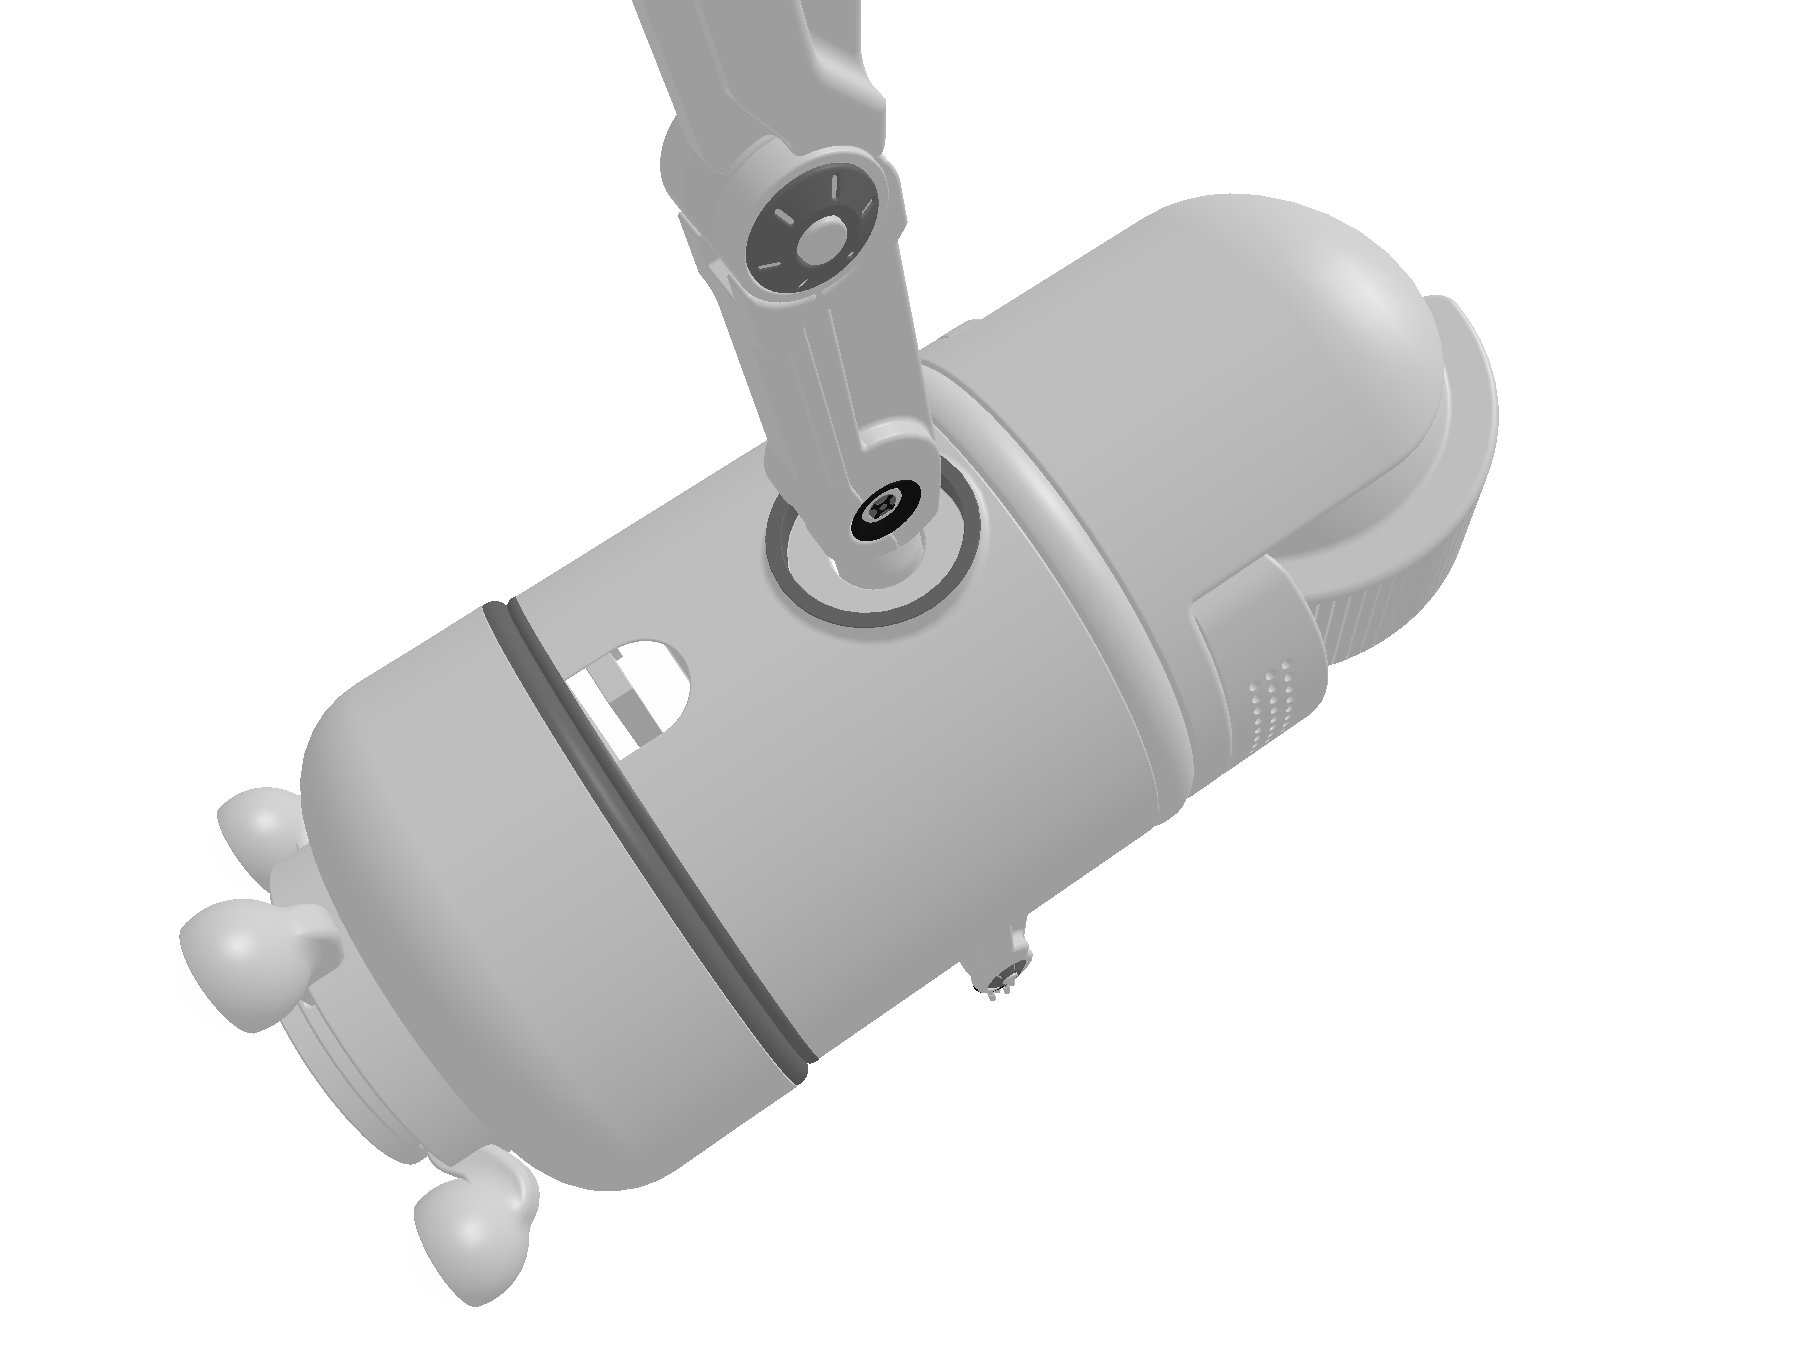
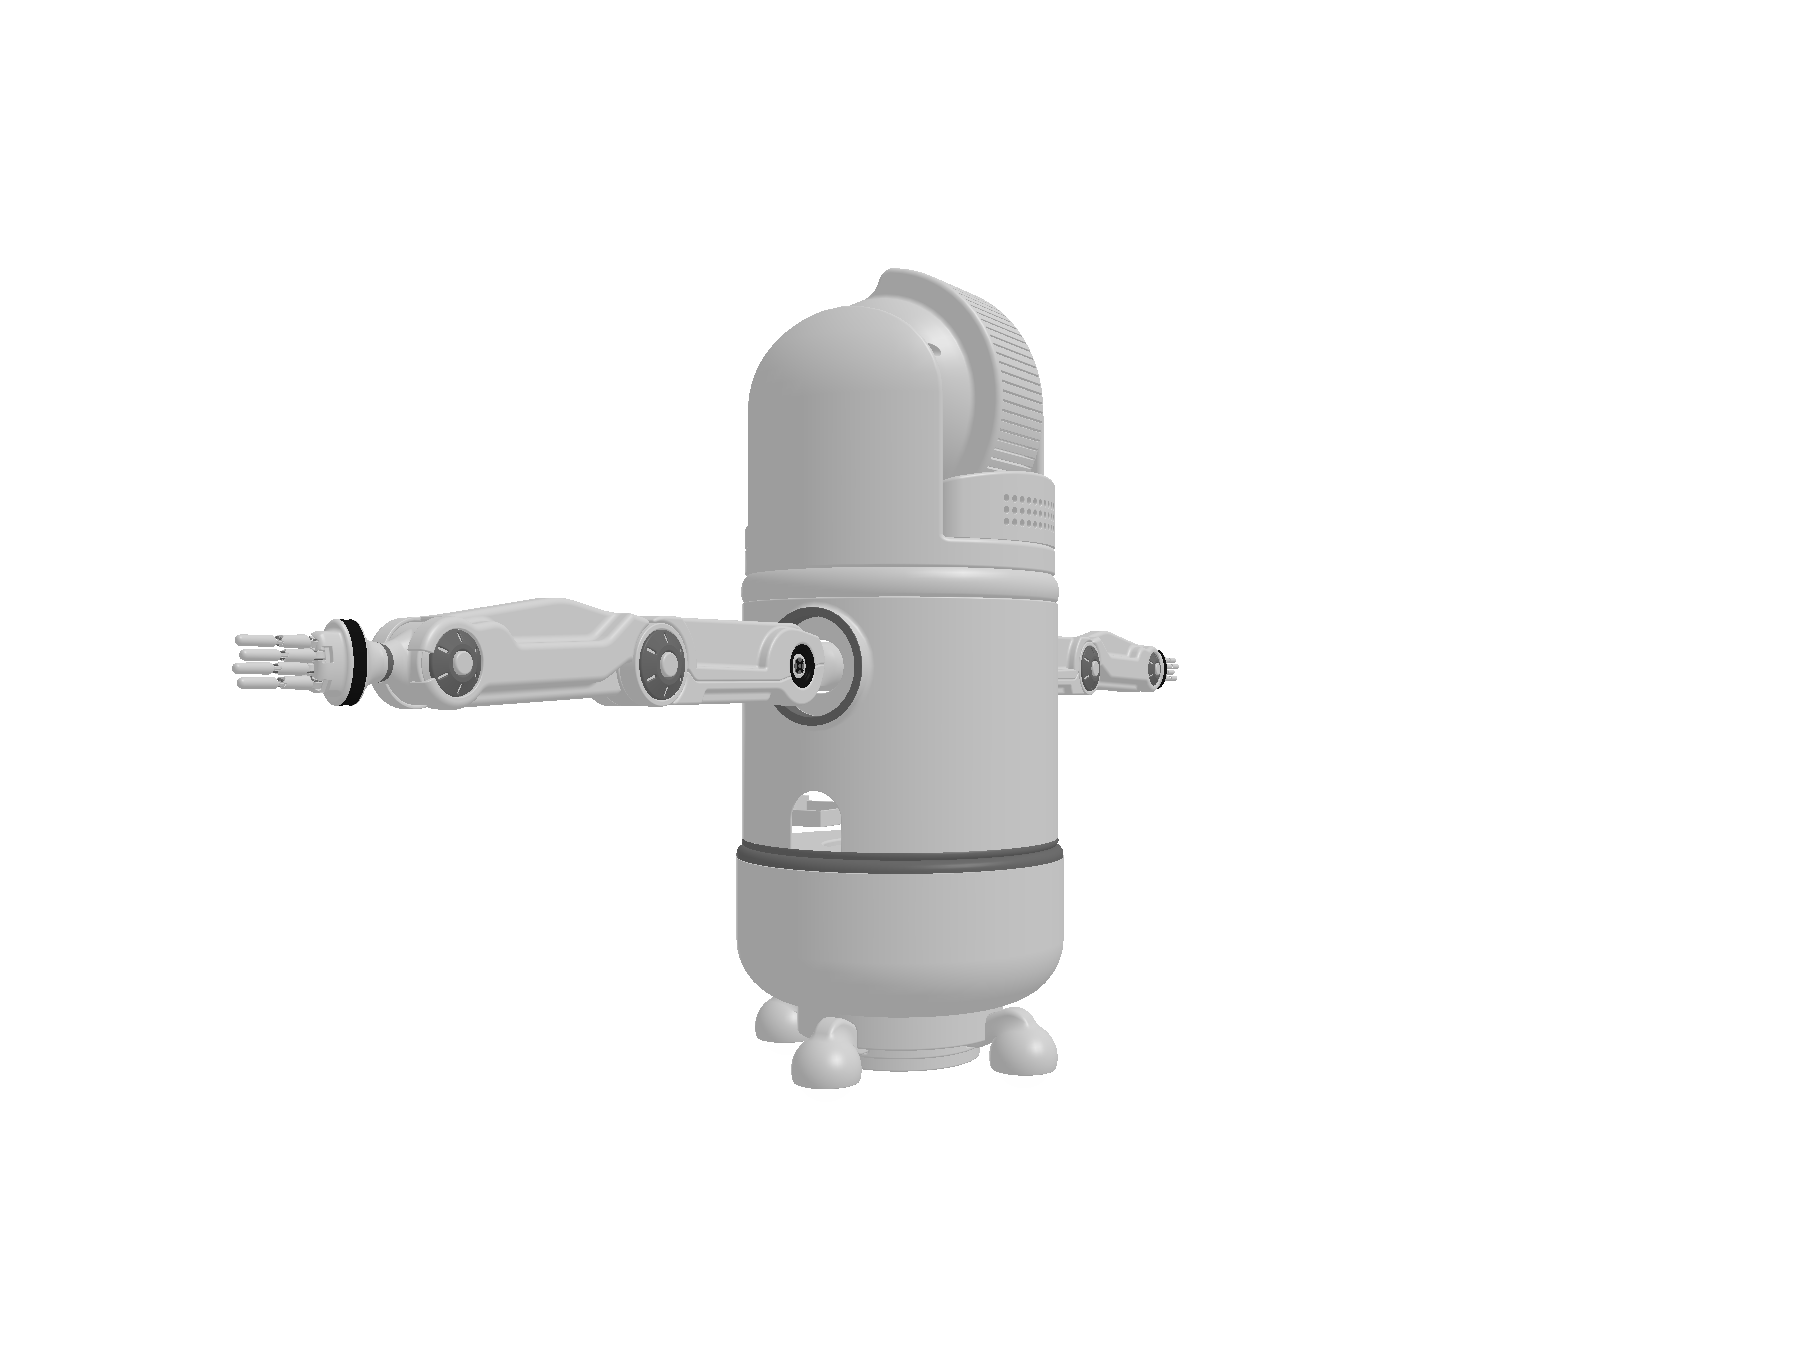
updated to transform

Changed region(s): [[0.0933, 0.0, 0.84, 0.9644]]

diff --git a/pyglet-poc.py b/pyglet-poc.py
@@ -1,7 +1,11 @@
 import trimesh
 
-# Load the .glb file as a Trimesh scene 
+# Load the .glb file as a Trimesh scene
 tri_scene = trimesh.load('source/Scene_OSR.glb')
+
+# Using trimesh function generate random transformation co-ordinates and transform position
+tri_scene = tri_scene.apply_transform(
+    trimesh.transformations.random_rotation_matrix())
 
 # Trimesh uses pyglet window to whow the 3D Model
 tri_scene.show()
@@ -10,6 +14,6 @@ tri_scene.show()
 png = tri_scene.save_image()
 
 # Write the bytes to file
-with open('res/featuretype.png', "wb") as f:
+with open('res/new_pose.png', "wb") as f:
     f.write(png)
     f.close()
